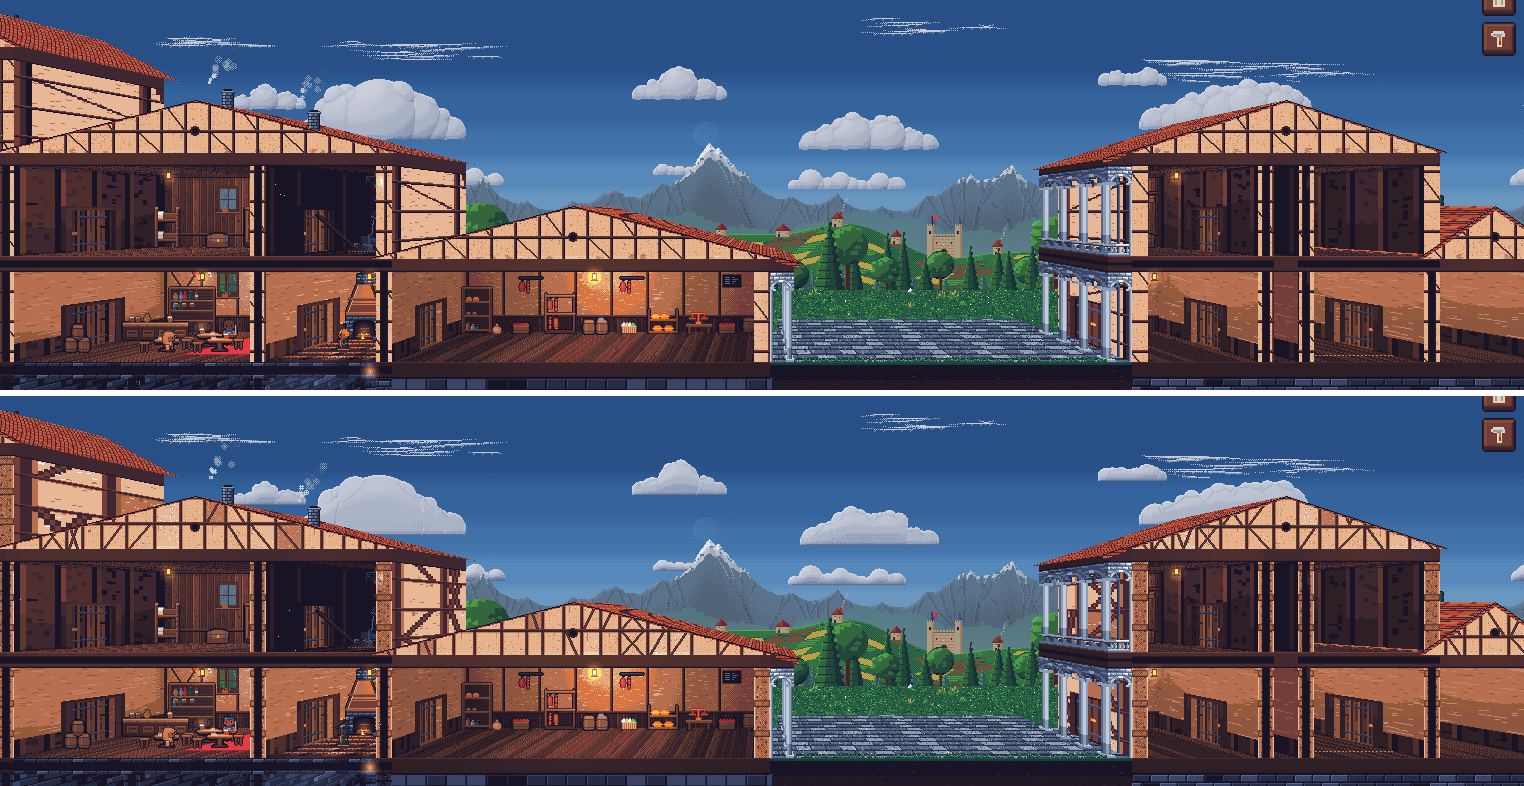
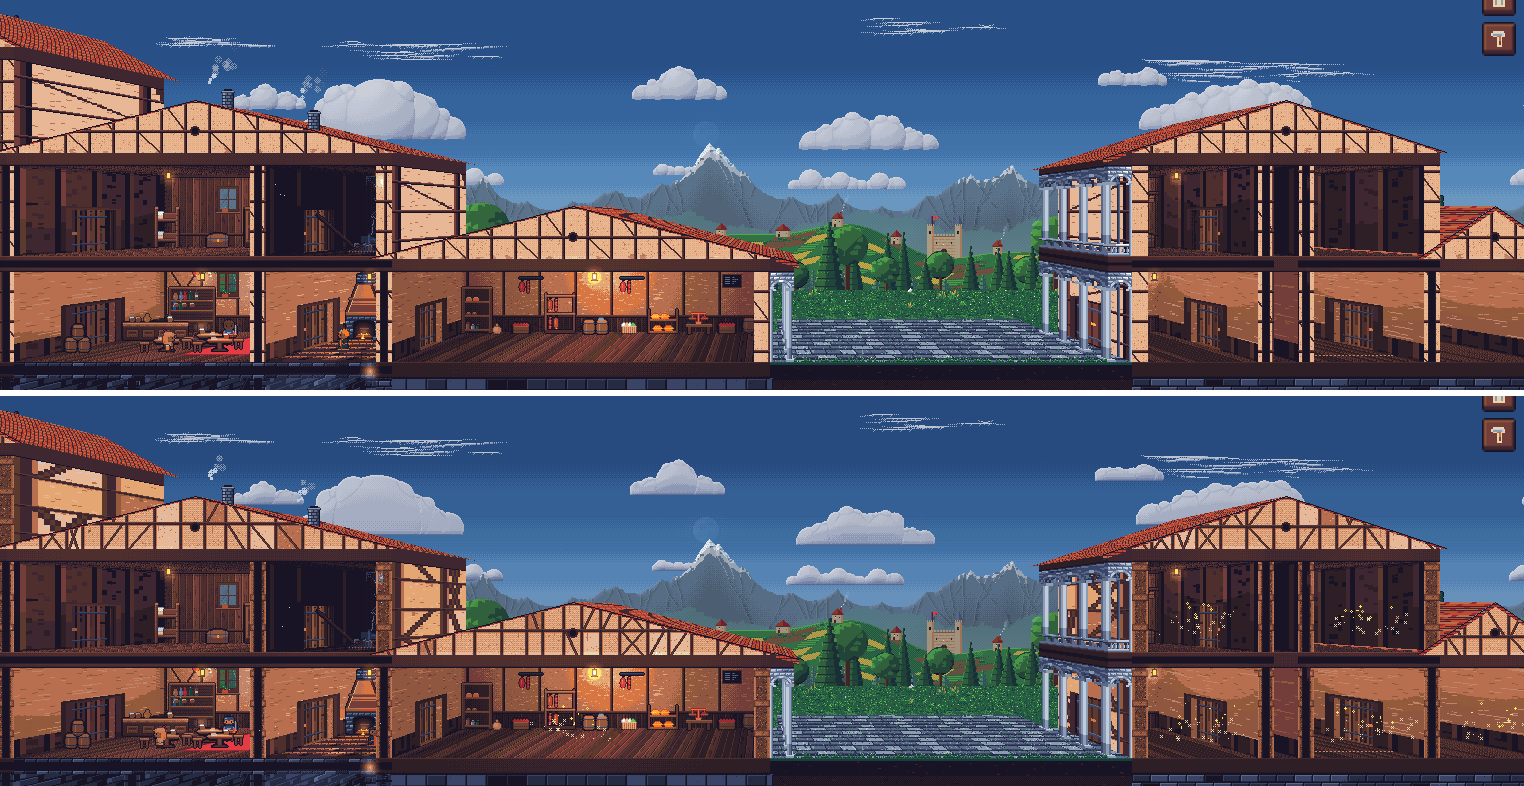
Entramado en corte, un tono más oscuro
El revoco, el barro y las varas del corte iban tan claros como la cara al sol y
deslumbraban; ahora van un tono por debajo.

Claude-Session: https://claude.ai/code/session_011Wau2CUcks799q681YrKG8

diff --git a/src/world/rooms/muros.ts b/src/world/rooms/muros.ts
@@ -362,19 +362,20 @@ function daubSection(
     for (let i = 0; i < w; i++) {
       const xx = col(i);
       // El revoco: más grueso por fuera que por dentro.
-      if (i === 0 || i === w - 1) b.set(xx, yy, P.sand);
-      else if (i === 1 || i === w - 2 || (w > 10 && i === 2)) b.set(xx, yy, P.skinS);
+      // Un tono por debajo de la cara (en el corte no da el sol: si no, deslumbra).
+      if (i === 0 || i === w - 1) b.set(xx, yy, P.skinS);
+      else if (i === 1 || i === w - 2 || (w > 10 && i === 2)) b.set(xx, yy, P.clay);
       else {
         // El barro con paja.
         const n = hash(xx, yy, 6);
-        b.set(xx, yy, n < 0.12 ? P.tan : n > 0.9 ? P.rust : P.clay);
+        b.set(xx, yy, n < 0.1 ? P.clay : n > 0.88 ? P.bark : P.rust);
       }
     }
   // El zarzo: las varas, cortadas, en zigzag de un lado al otro.
   for (let k = 0, yy = y + 3; yy < y + h - 2; k++, yy += 5) {
     const i = 3 + (k % 2 ? w - 8 : 0) + (k % 4 === 1 ? 1 : 0);
     const xx = Math.min(col(i), col(i + 1));
-    b.rect(xx, yy, 2, 2, P.bark);
+    b.rect(xx, yy, 2, 2, P.plum);
     b.set(xx, yy, P.oak);
   }
   // Las carreras, por la testa, cada 30.

diff --git a/docs/plan-arte.md b/docs/plan-arte.md
@@ -95,7 +95,8 @@ npm run build`.
     distancias distintas y riostras variadas; sillería en hiladas de alto distinto); en corte
     (el grueso alrededor de cada sala), `wallSection` enseña lo de dentro del muro (forros y
     travesaños por la testa; revoco, barro con zarzo y carreras; dos hojas de sillar con
-    mampuesto; los sótanos, igual en piedra oscura). El corte ocupa todo el grueso, de fuera de
+    mampuesto; los sótanos, igual en piedra oscura; el entramado, un tono por debajo de su cara,
+    que deslumbraba). El corte ocupa todo el grueso, de fuera de
     la sala hasta su hueco (`WALL + PARTITION / 2`): antes, por dentro asomaba el dibujo de
     frente (el usuario);
   - iconos (`ui/icons.tsx`): las piezas del jardín y el claustro en Obras, los suelos y bordes
